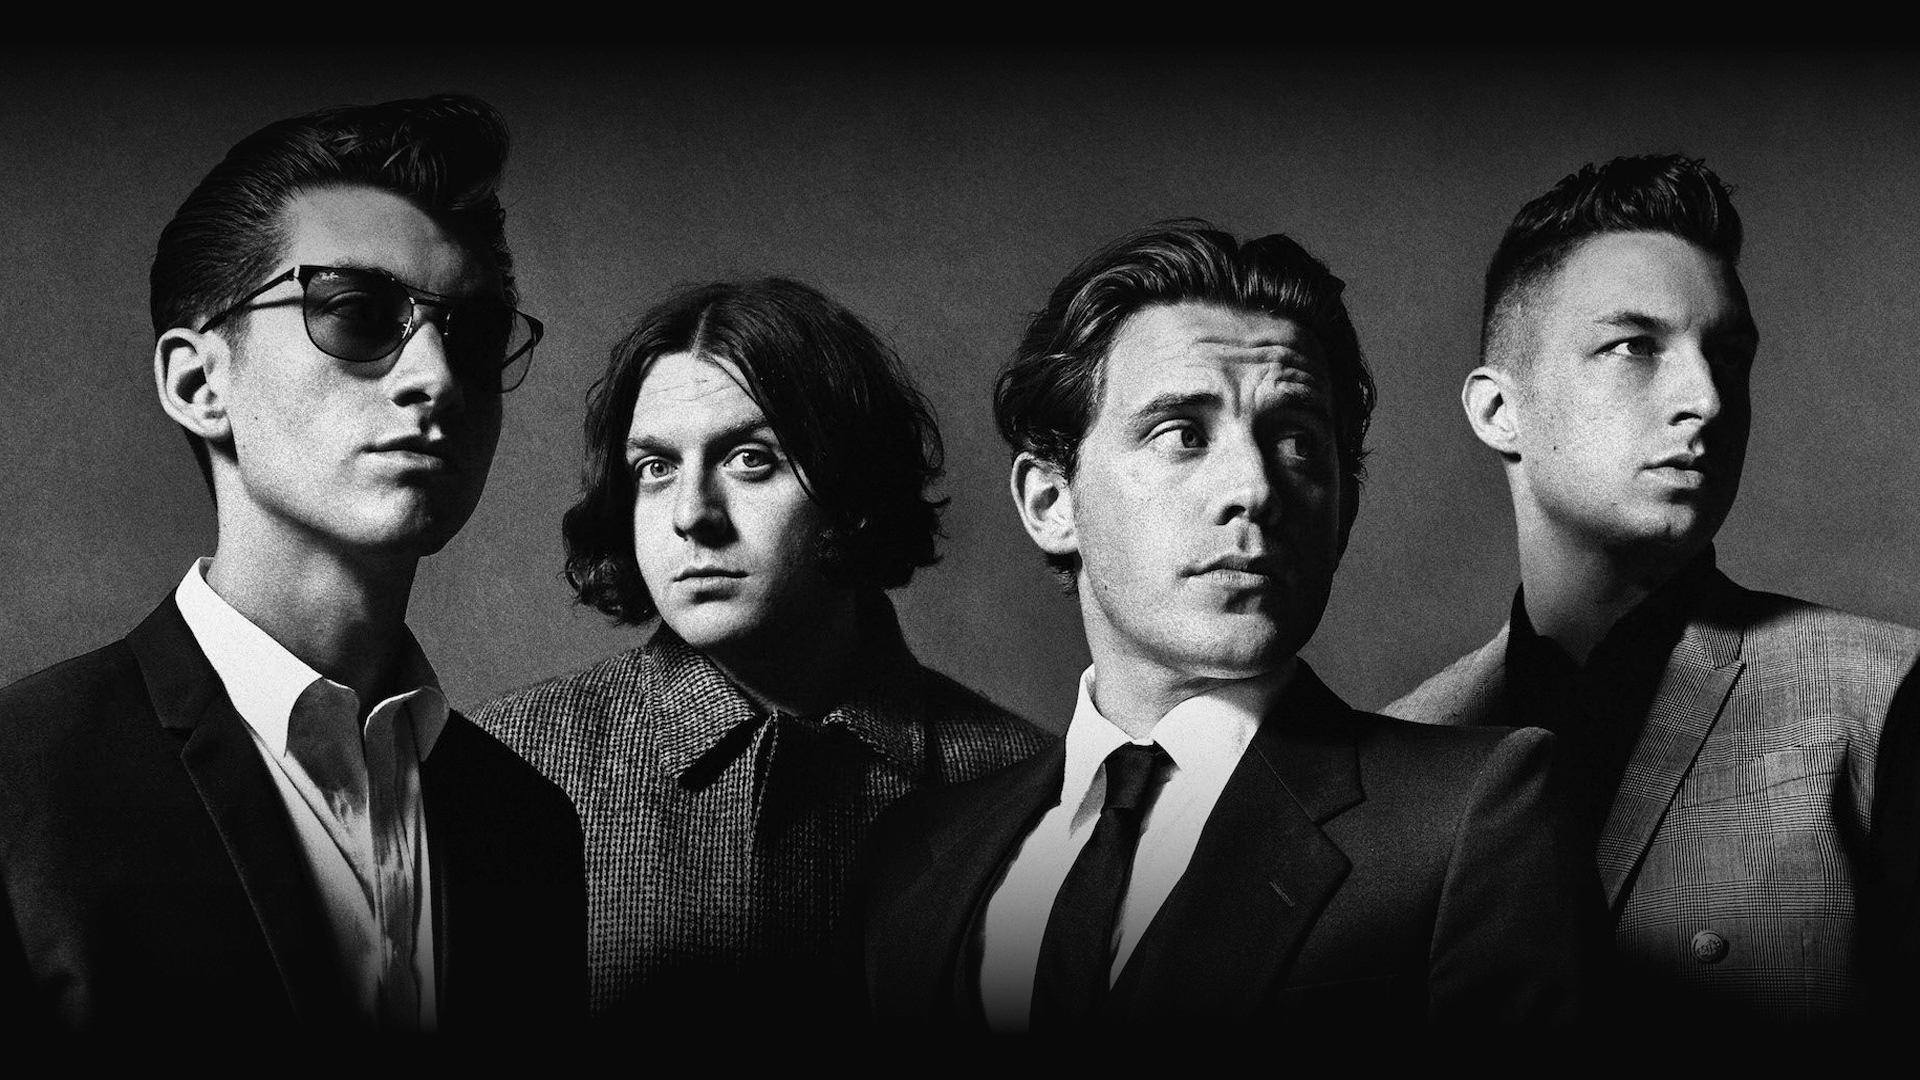
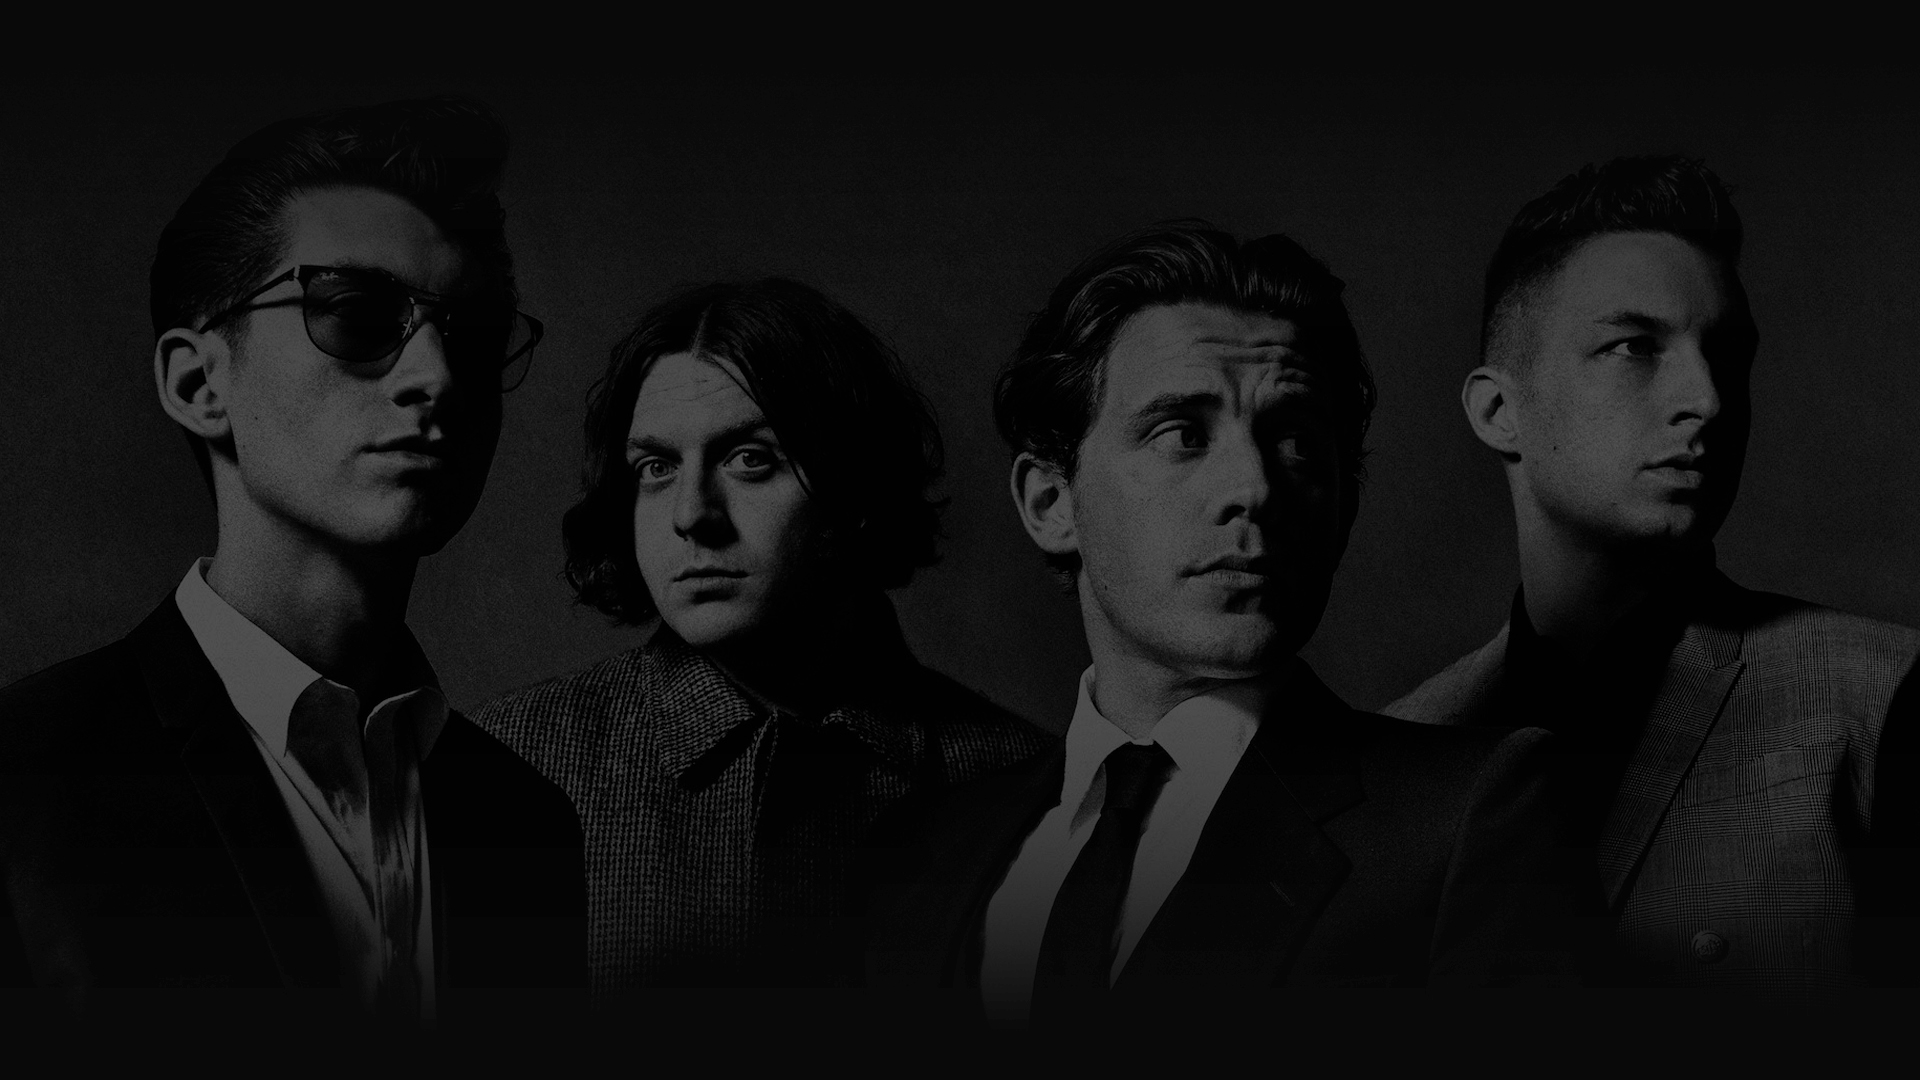
Update index.html Slider

diff --git a/index.html b/index.html
@@ -5,7 +5,6 @@
     <meta http-equiv="X-UA-Compatible" content="IE=edge" />
     <meta name="viewport" content="width=device-width, initial-scale=1.0" />
     <link rel="stylesheet" href="./styles/css/index.css" />
-    <link rel="stylesheet" href="./styles/css/library.css" />
     <link rel="preconnect" href="https://fonts.googleapis.com" />
     <link rel="preconnect" href="https://fonts.gstatic.com" />
     <!-- CSS only -->
@@ -13,6 +12,7 @@
     <link href="https://fonts.googleapis.com/css2?family=Roboto:ital,wght@0,100;0,300;0,400;0,500;0,700;0,900;1,100;1,300;1,400;1,500;1,700;1,900&display=swap" rel="stylesheet" />
     <link rel="stylesheet" href="https://cdn.jsdelivr.net/npm/bootstrap-icons@1.9.1/font/bootstrap-icons.css" />
     <link rel="shortcut icon" href="./assets/favicon.ico" type="image/x-icon"/>
+    <link rel="stylesheet" href="./styles/css/library.css" />
 
     <!-- Primary Meta Tags -->
     <title>Vao Music</title>
@@ -61,9 +61,6 @@
                     <li>
                         <a href="#" class="menu__link">Grupos</a>
                     </li>
-                    <li>
-                        <a href="#" class="nav__action"><i class="bi bi-zoom-out"></i></a>
-                    </li>
                     <button class="switch active" id="switch">
                         <span class="nav_span"><i class="bi bi-brightness-high"></i></span>
                         <span class="nav_span"><i class="bi bi-moon-stars"></i></span>
@@ -82,23 +79,35 @@
             <div class="carousel-inner">
               <div class="carousel-item active">
                 <img src="./assets/img/Baterista_Slider.jpg" class="d-block w-100" alt="baterista">
-                <div class="carousel-caption d-none d-md-block">
-                  <h5>First slide label</h5>
-                  <p>Some representative placeholder content for the first slide.</p>
+                <div class="carousel-caption d-flex flex-column justify-content-center h-100">
+                    <h5 class="slider__title">POST MALONE</h5>
+                    <h5 class="slider__title">TWELVE CARAT TOOTHACHE</h5>
+                  <div class="slider__buttons">
+                    <button class="slider__button-text">COMPRAR</button>
+                    <button class="slider__button-icon"><i class="bi bi-star slider__icon"></i></button>
+                  </div>
                 </div>
               </div>
               <div class="carousel-item">
                 <img src="./assets/img/Artik_Monkeys_Slider.jpg" class="d-block w-100" alt="artik_monkeys">
-                <div class="carousel-caption d-none d-md-block">
-                  <h5>Second slide label</h5>
-                  <p>Some representative placeholder content for the second slide.</p>
+                <div class="carousel-caption d-flex flex-column justify-content-center h-100 ">
+                    <h5 class="slider__title">NUEVO ALBUM</h5>
+                    <h5 class="slider__title">ARTIC MONKEYS</h5>
+                    <div class="slider__buttons">
+                      <button class="slider__button-text">COMPRAR</button>
+                      <button class="slider__button-icon"><i class="bi bi-star slider__icon"></i></button>
+                    </div>
                 </div>
               </div>
               <div class="carousel-item">
-                <img src="./assets/img/Imagine_Dragon_Slider.jpg" class="d-block w-100" alt="imagine_dragons">
-                <div class="carousel-caption d-none d-md-block">
-                  <h5>Third slide label</h5>
-                  <p>Some representative placeholder content for the third slide.</p>
+                <img src="./assets/img/Imagine_Dragon_Slider.jpg" class="d-block w-100 slider__filter" alt="imagine_dragons">
+                <div class="carousel-caption d-flex flex-column justify-content-center h-100 ">
+                    <h5 class="slider__title">IMAGINE DRAGONS</h5>
+                    <h5 class="slider__title">ORIGINS</h5>
+                    <div class="slider__buttons">
+                      <button class="slider__button-text">COMPRAR</button>
+                      <button class="slider__button-icon"><i class="bi bi-star slider__icon"></i></button>
+                    </div>
                 </div>
               </div>
             </div>
@@ -277,7 +286,7 @@
             <div class="footer__column footer__column-left">
                 <figure>
                     <a href="#">
-                        <img src="./assets/svg/logo_discos-01.svg" width="96px" alt="logo_discos">
+                        <img src="./assets/svg/Logo_Vao_Texto.svg" width="96px" alt="logo_discos">
                     </a>
                 </figure>
             </div>

diff --git a/styles/css/modules/slider.css b/styles/css/modules/slider.css
@@ -1,0 +1,67 @@
+.slider__title {
+    font-style: normal;
+    font-weight: 700;
+    font-size: 4rem;
+    line-height: 1.125;
+    top: 0;
+}
+
+.slider__buttons {
+    padding-top: 1rem;
+    display: flex;
+    align-items: center;
+    justify-content: center;
+    font-weight: 500;
+    line-height: 22px;
+    letter-spacing: 0px;
+    text-align: center;
+    border-radius: 4px;
+    gap: 1rem;
+    border-color: none;
+    top: 0;
+}
+
+.slider__button-text {
+    padding: 1rem 2rem;
+    border-radius: 4px;
+    font-weight: 500;
+    background: #FF0039;
+    color: white;
+    font-size: 1.25rem;
+    border: 1px solid #FF0039
+}
+
+.slider__button-text:hover {
+    background: white;
+    color: #FF0039;
+    border: 1px solid white
+}
+
+.slider__button-icon {
+    padding: 1rem;
+    border-radius: 4px;
+    background: none;
+    border: 1px solid #FFFFFF;
+    border-radius: 4px;
+    color: white;
+    font-size: 1.25rem;
+    font-weight: 500;
+    line-height: 22px;
+    text-align:center;
+}
+
+.slider__button-icon:hover {
+    background: #FF0039;
+    color: white;
+    border: 1px solid #FF0039;
+}
+
+@media (max-width: 768px) {
+    .slider__buttons {
+        display: none;
+    }
+
+    .slider__title {
+        display: none;
+    }
+}

diff --git a/js/index.js b/js/index.js
@@ -1,5 +1,11 @@
-const btnSwitch = document.querySelector("#switch");
-btnSwitch.addEventListener("click",()=>{
-    document.body.classList.toggle("dark");
-    btnSwitch.classList.toggle("active");
-});
+'use strict';
+
+import header from "./modules/header.js";
+import switcher from "./modules/switcher.js";
+
+const documentReady = () => {
+  header();
+  switcher();
+};
+
+document.addEventListener('DOMContentLoaded', documentReady);

diff --git a/js/modules/switcher.js b/js/modules/switcher.js
@@ -1,0 +1,9 @@
+const switcher = () => {
+    const btnSwitch = document.querySelector("#switch");
+    btnSwitch.addEventListener("click",()=>{
+        document.body.classList.toggle("dark");
+        btnSwitch.classList.toggle("active");
+    });
+};
+
+export default switcher;

diff --git a/styles/css/modules/headed.css b/styles/css/modules/headed.css
@@ -1,11 +1,15 @@
 .header {
-    background-color: black;
     position: fixed;
     z-index: 25;
     top: 0;
     left: 0;
     font-size: 20px;
     width: 100%;
+    background-color: none;
+}
+
+.header--scroll {
+    background-color: #FF0039;
 }
 
 .nav {

diff --git a/js/modules/header.js b/js/modules/header.js
@@ -1,0 +1,10 @@
+const header = () => {
+    const header = document.querySelector('.header');
+    
+    document.addEventListener('scroll', () => {
+      header.classList.toggle('header--scroll', scrollY > 0);
+    });
+
+};
+  
+export default header;

diff --git a/styles/css/library.css b/styles/css/library.css
@@ -8,6 +8,7 @@
 @import './modules/buttons.css';
 @import './modules/list.css';
 @import './modules/form.css';
+@import './modules/slider.css';
 @import './modules/switcher.css';
 @import './modules/section.css';
 @import './modules/footer.css';

diff --git a/styles/css/modules/switcher.css b/styles/css/modules/switcher.css
@@ -26,7 +26,7 @@ body.dark{
     box-shadow: 0px 0px 2px 2px rgba(0, 0  ,0, .2);
 }
 .switch.active{
-    background-color:orange;
+    background-color:white;
     color: #000;   
 }
 .switch.active::after{
